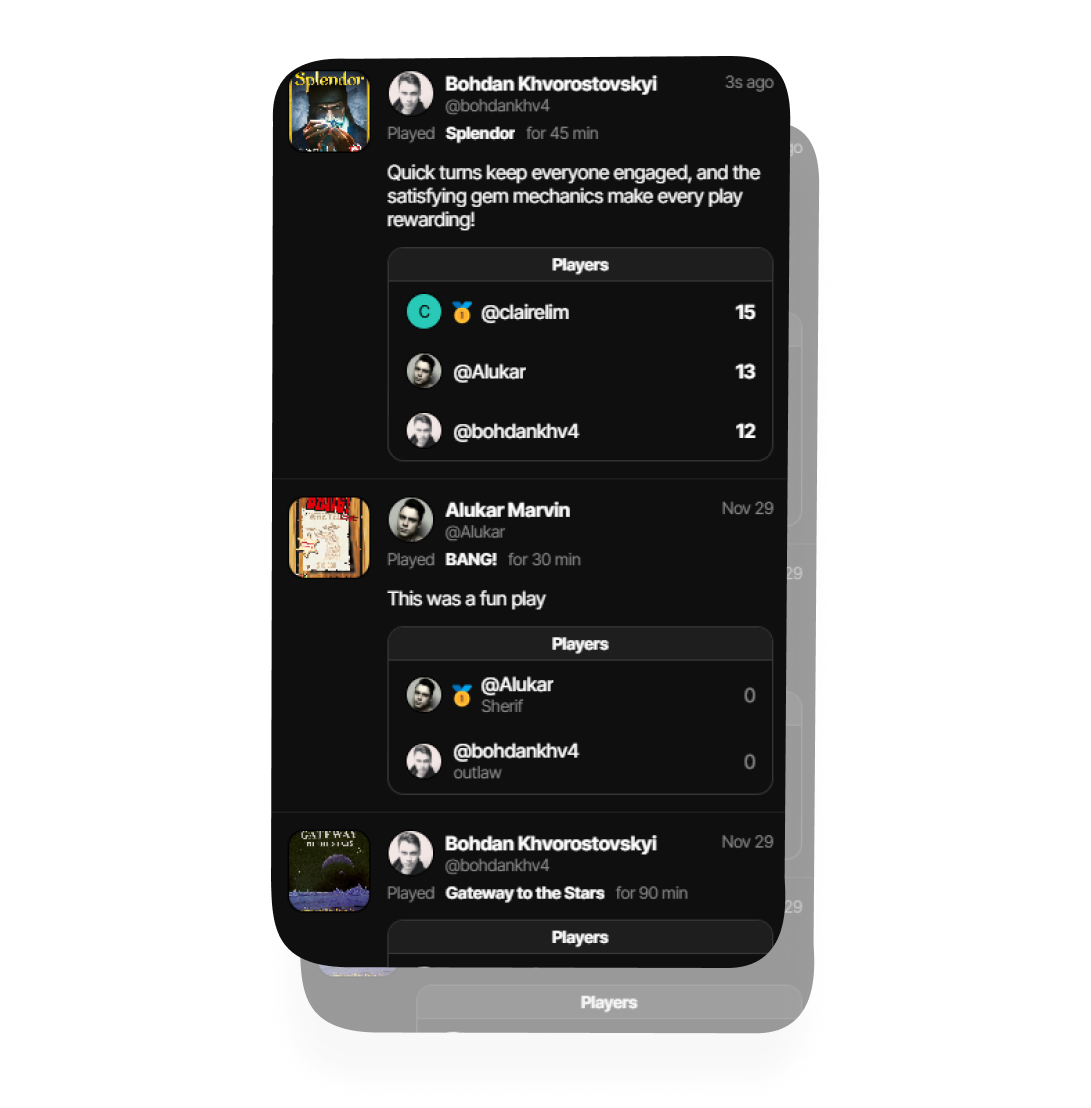
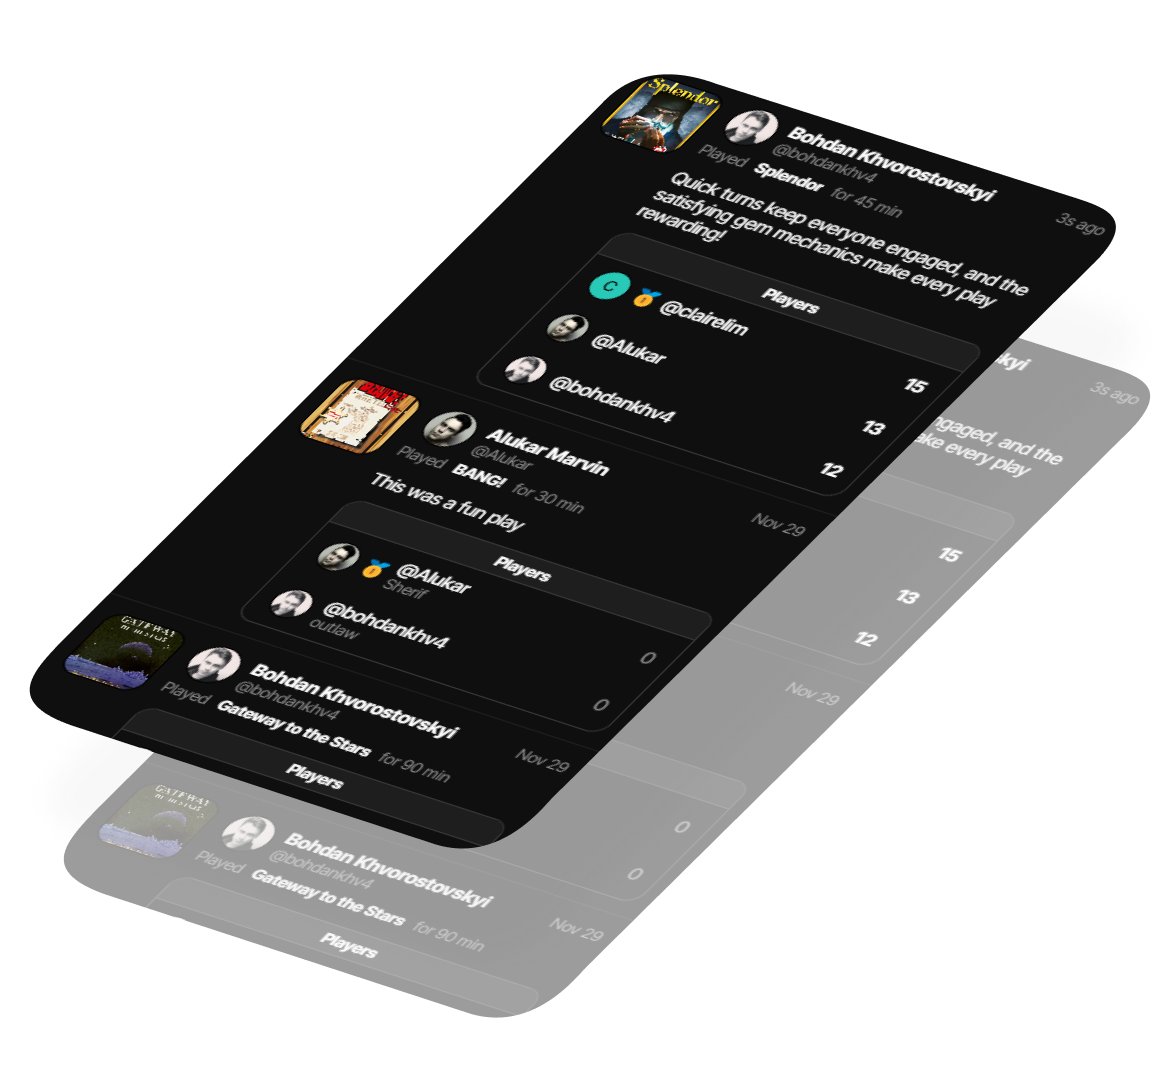
Enhance image positioning in Section5 of HomePage; add object-right and object-left classes for better image alignment

diff --git a/frontend/src/pages/HomePage.jsx b/frontend/src/pages/HomePage.jsx
@@ -197,10 +197,10 @@ const Section5 = () => {
                     </div>
                 </div>
                 <div className="flex border-radius-lg overflow-hidden text-white pos-relative flex-1 bg-black">
-                    <div className="pos-absolute mask-image-100">
+                    <div className="pos-absolute mask-image-100 h-100 w-100">
                         <img
                             src='./assets/section-5-2.png'
-                            className="w-100 h-100 right-0"
+                            className="w-100 h-100 object-cover"
                         />
                     </div>
                     <div className="flex align-center justify-center text-center gap-6 flex-1 h-set-300-px h-sm-set-250-px p-6 z-3">

diff --git a/frontend/src/utilities/Common.css b/frontend/src/utilities/Common.css
@@ -929,6 +929,12 @@ body:has(.header) .sticky {
 .object-top {
     object-position: top;
 }
+.object-right {
+    object-position: right;
+}
+.object-left {
+    object-position: left;
+}
 .object-center {
     object-position: center;
 }
